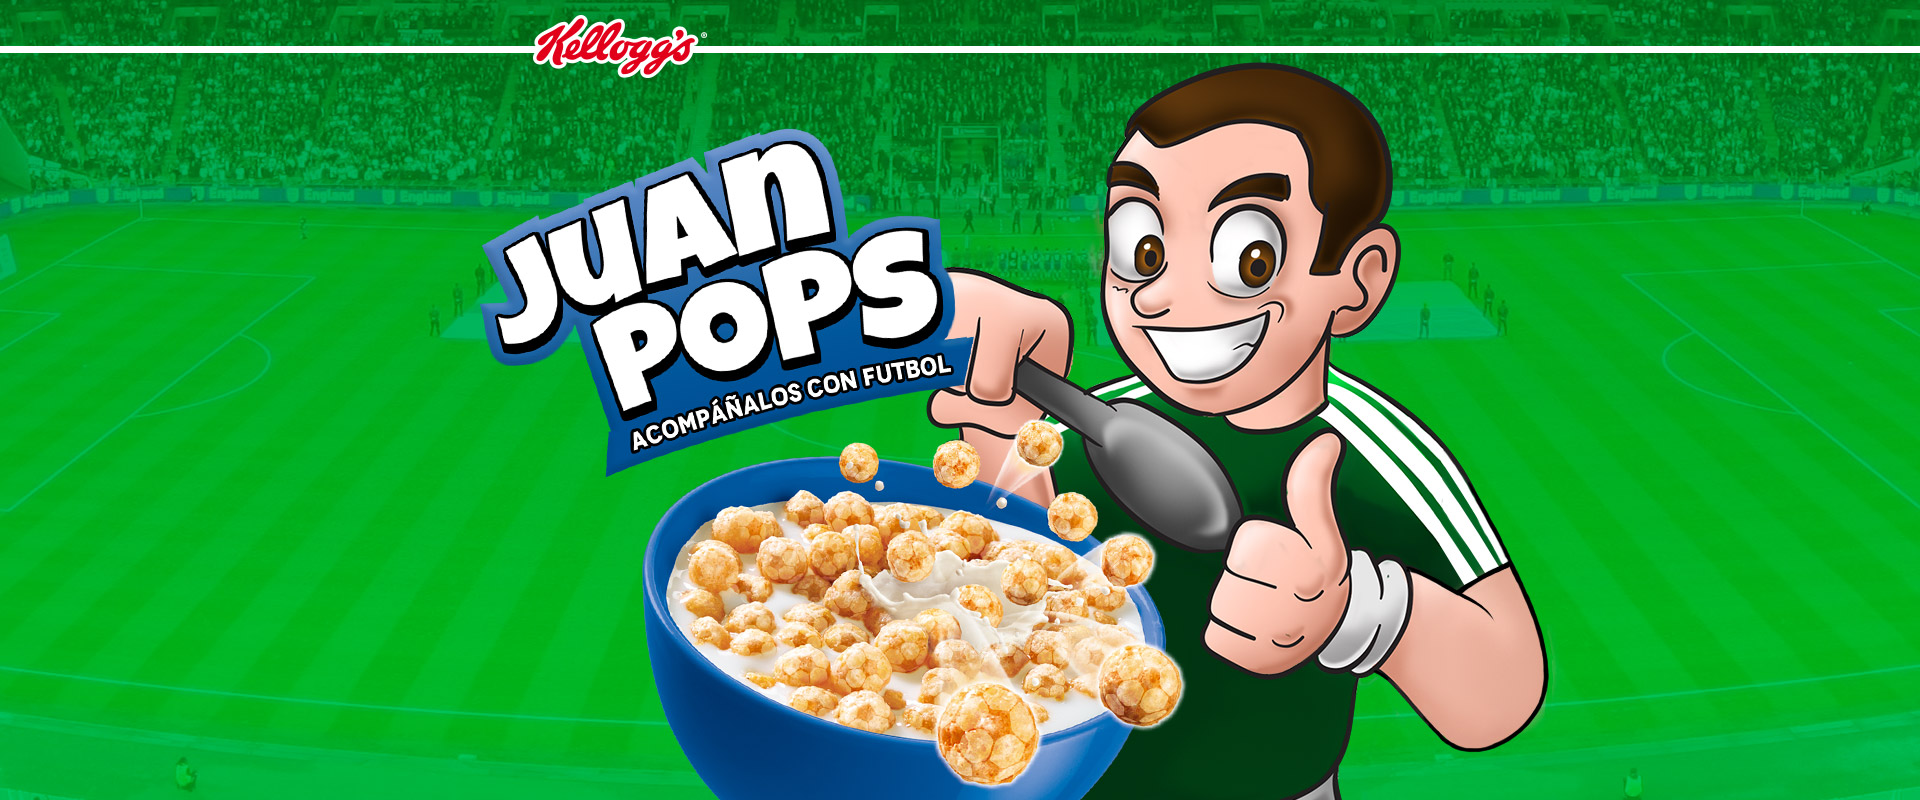
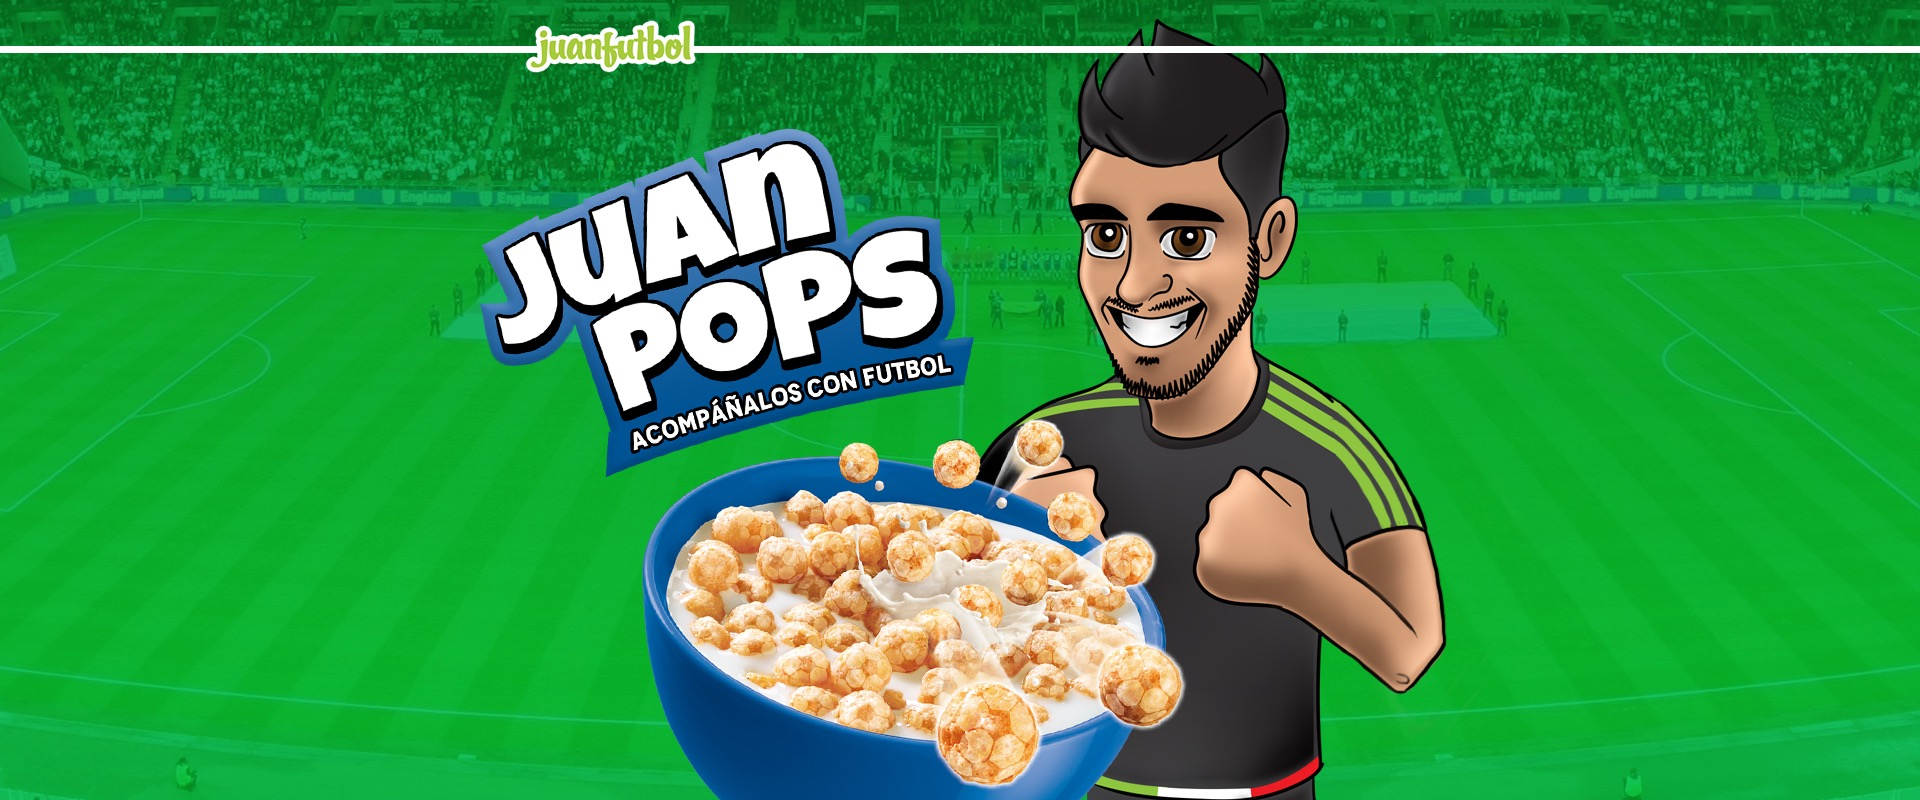
beta2
Cambios de portada y videos. Arreglo billboard de kellogs

diff --git a/css/jquery.kelloggs.css b/css/jquery.kelloggs.css
@@ -11,15 +11,16 @@ div.load3{ background-image: url("../images/box1/left.jpg"); display: none; }
 div.indepth_billboards{
 	width: 100%;
 	background-repeat: no-repeat;
-	background-position: center top; 
 	background-attachment: fixed;
 	height: 800px;
 }
 div#indepth_cover{
 	background-image: url("../images/Portada.jpg");
+	background-position: center top;
 }
 div#indepth_billboard{
 	background-image: url("../images/KelloggsBillboard.jpg");
+	background-position: center center;
 }
 div#indepth_box{
 	height: 800px;

diff --git a/js/jquery.kelloggs.js b/js/jquery.kelloggs.js
@@ -1,5 +1,6 @@
 var videos = [
-	"M74kCD-4Rwc"
+	"n3Uoi9Xg9fg",
+	"IfupzgMJ8pg"
 ];
 
 window.addEventListener("load", callback, false);
